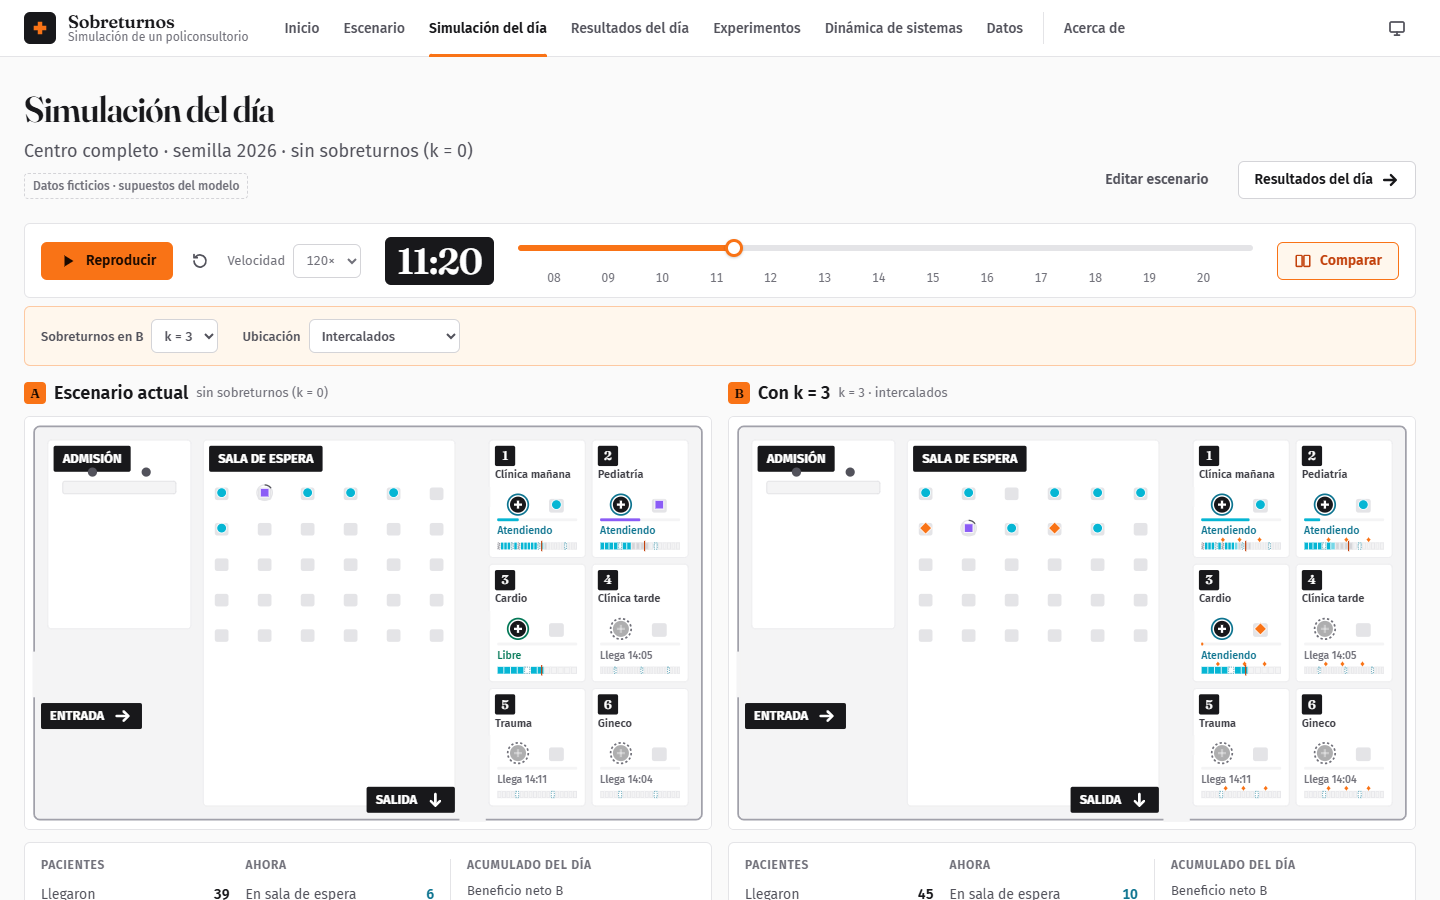
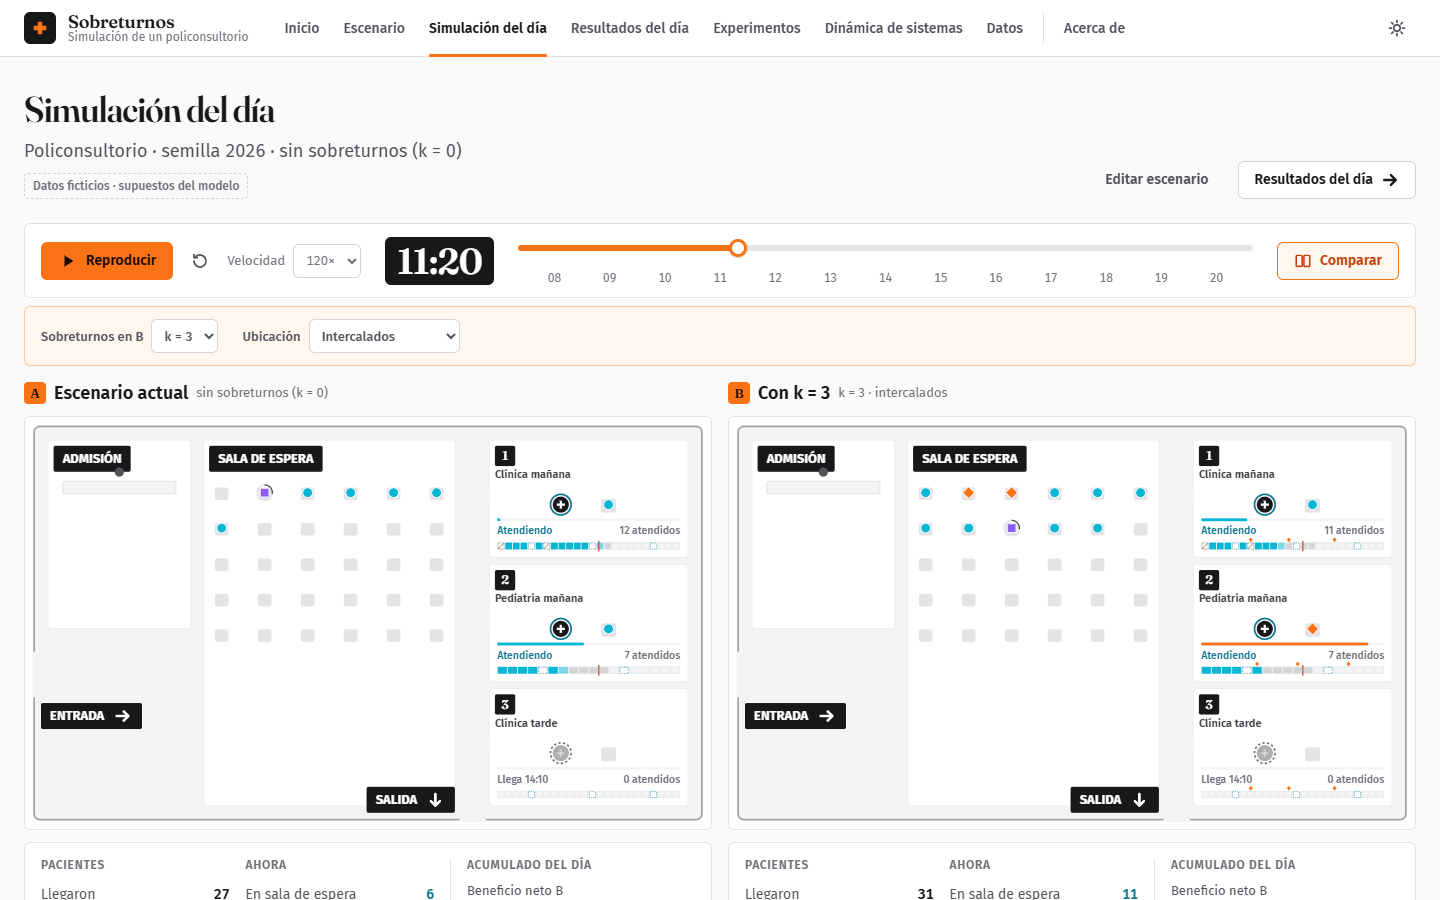
Paso 7d: limpieza final del repositorio y del informe de entrega
- docs/calibracion.md: redacción impersonal de las alternativas pendientes.
- Captura 09 con el escenario policonsultorio cargado explícitamente.
- Informe de entrega: el capítulo 4 empieza a continuación de 3.6 y el
  párrafo del medio utilizado va junto a su captura.

diff --git a/scripts/informe/entrega.py b/scripts/informe/entrega.py
@@ -93,10 +93,11 @@ class InformeEntrega(Informe):
             "sobreturnos a más largo plazo.",
         ])
         self.figura("flujo", fg.flujo_paciente(DIR_FIG / "flujo.png"), "Flujo del paciente en el modelo", ancho=14.5)
-        self.p(f"El medio utilizado es una aplicación web propia que corre en el navegador y está publicada en {DEMO} (código en "
+        medio = self.p(f"El medio utilizado es una aplicación web propia que corre en el navegador y está publicada en {DEMO} (código en "
                f"{REPO}). Permite editar el escenario, ver la animación de un día y comparar el mismo día con y sin sobreturnos "
-               f"({self.F('cap_comp')}), consultar los resultados de los experimentos y explorar el modelo de la lista de espera."
-               ).paragraph_format.keep_with_next = True
+               f"({self.F('cap_comp')}), consultar los resultados de los experimentos y explorar el modelo de la lista de espera.")
+        medio.paragraph_format.keep_with_next = True   # el párrafo va entero y junto a su captura
+        medio.paragraph_format.keep_together = True
         self.figura("cap_comp", fg.recortar_captura(CAPTURAS / "09-comparacion-policonsultorio-claro.png", DIR_FIG / "cap_comp.png"),
                     "La aplicación: el mismo día sin sobreturnos (izquierda) y con sobreturnos (derecha), con los mismos pacientes")
 
@@ -448,7 +449,7 @@ class InformeEntrega(Informe):
     def resultados(self):
         d = self.d
         e = d.est
-        self.h1("4. Resultados")
+        self.h1("4. Resultados", salto=False)  # empieza a continuación: evita una página casi vacía al final de 3.6
         self.p(f"El estudio simuló los tres escenarios con las cuatro políticas y k = 0 a 6 sobreturnos por profesional, con números "
                f"aleatorios comunes y entre {ent(min(x['curva']['R'] for x in e['e1']))} y {ent(max(x['curva']['R'] for x in e['e1']))} días "
                f"por configuración (se duplicaron los días donde las diferencias entre k vecinos eran poco precisas). La "

diff --git a/docs/calibracion.md b/docs/calibracion.md
@@ -103,7 +103,7 @@ depende de cada cuánto aparece un hueco, no de la carga total.
 
 **Conclusión:** con la regla de selección fija y las palancas permitidas, la meta de abandono no
 se puede cumplir sin bajar la utilización muy por debajo del 80 % (y aun así no llega). Se deja
-fuera de meta y se informa. Alternativas que quedan a decisión del arquitecto (ninguna aplicada):
+fuera de meta y se informa. Alternativas que quedaron pendientes de decisión (ninguna aplicada):
 reservar slots para demanda espontánea, cambiar la regla de selección (por ejemplo, intercalar
 espontáneos cada cierta cantidad de turnos, o subirlos de prioridad después de cierto tiempo de
 espera) o redefinir la meta.
